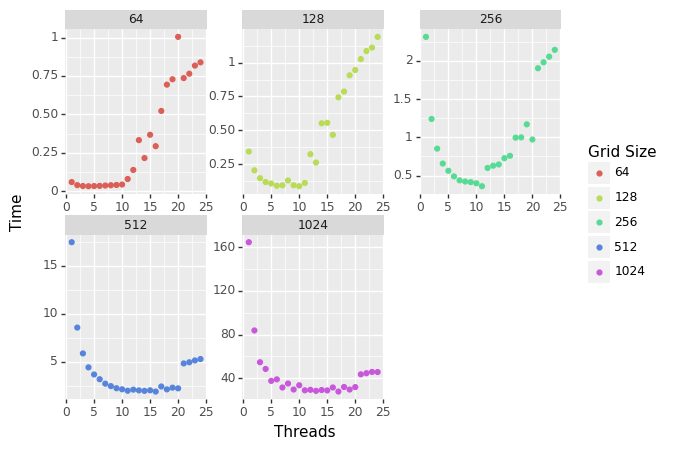
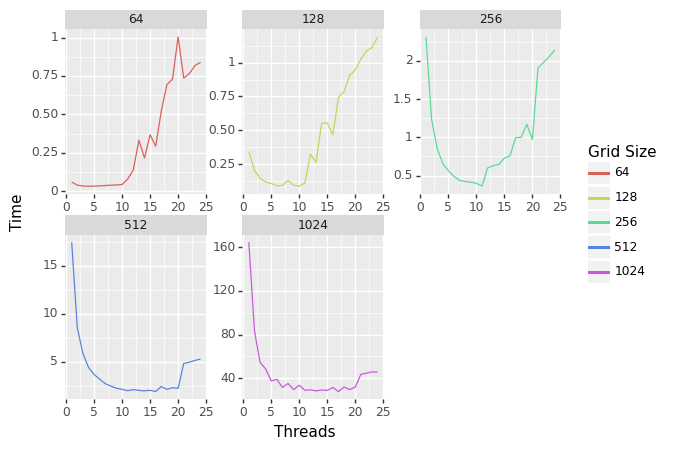
Changed scatter to line plot for strong scaling

diff --git a/Projects/Project3/Project3-code/plot_results.py b/Projects/Project3/Project3-code/plot_results.py
@@ -4,7 +4,7 @@ import pandas as pd
 def strong():
     df = pd.read_csv("slurm-1441825.out")
     df = df.astype({"Grid Size": "category"})
-    plot = ggplot(df, aes(x="Threads", y="Time", color="Grid Size")) + facet_wrap("Grid Size", nrow=2, scales="free") + geom_point() + theme(subplots_adjust={'wspace': 0.25, 'hspace': .25})
+    plot = ggplot(df, aes(x="Threads", y="Time", color="Grid Size")) + facet_wrap("Grid Size", nrow=2, scales="free") + geom_line() + theme(subplots_adjust={'wspace': 0.25, 'hspace': .25})
     plot.save("strong_scaling.png")
 
 
